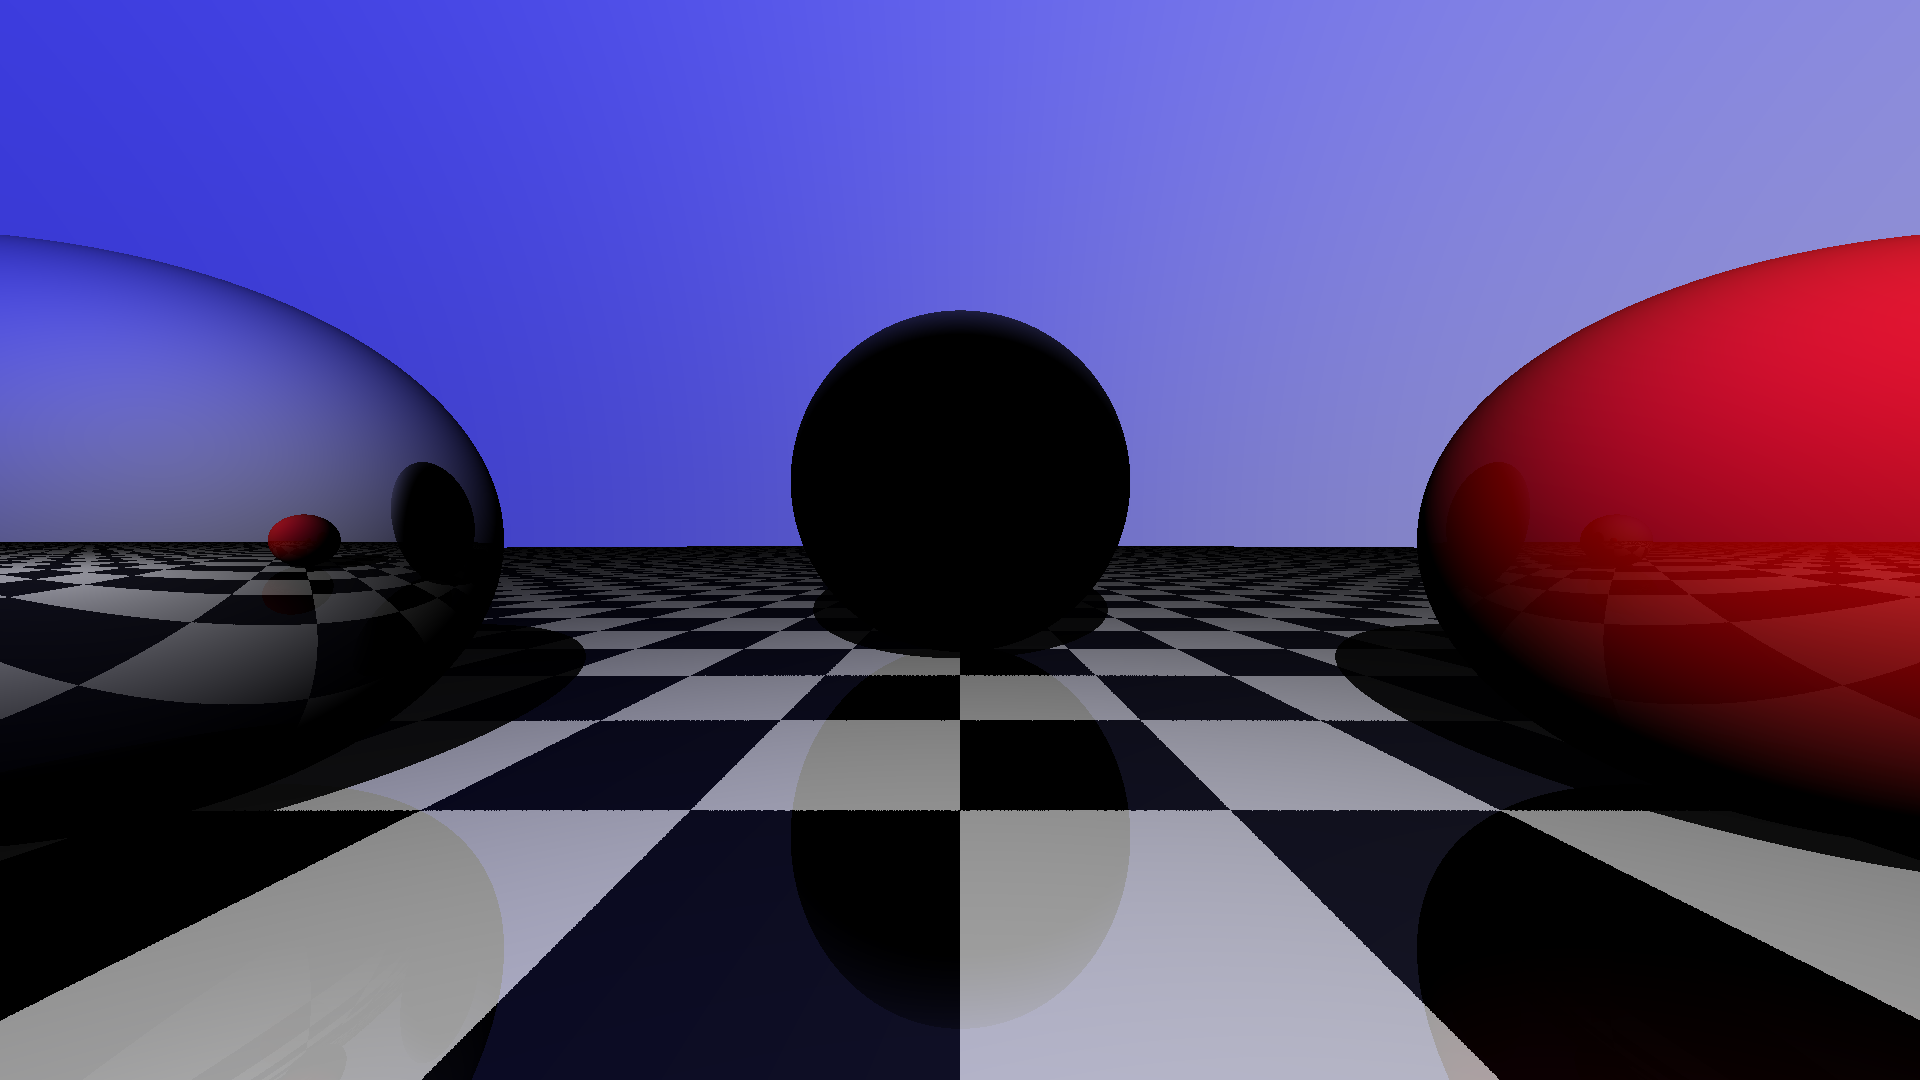
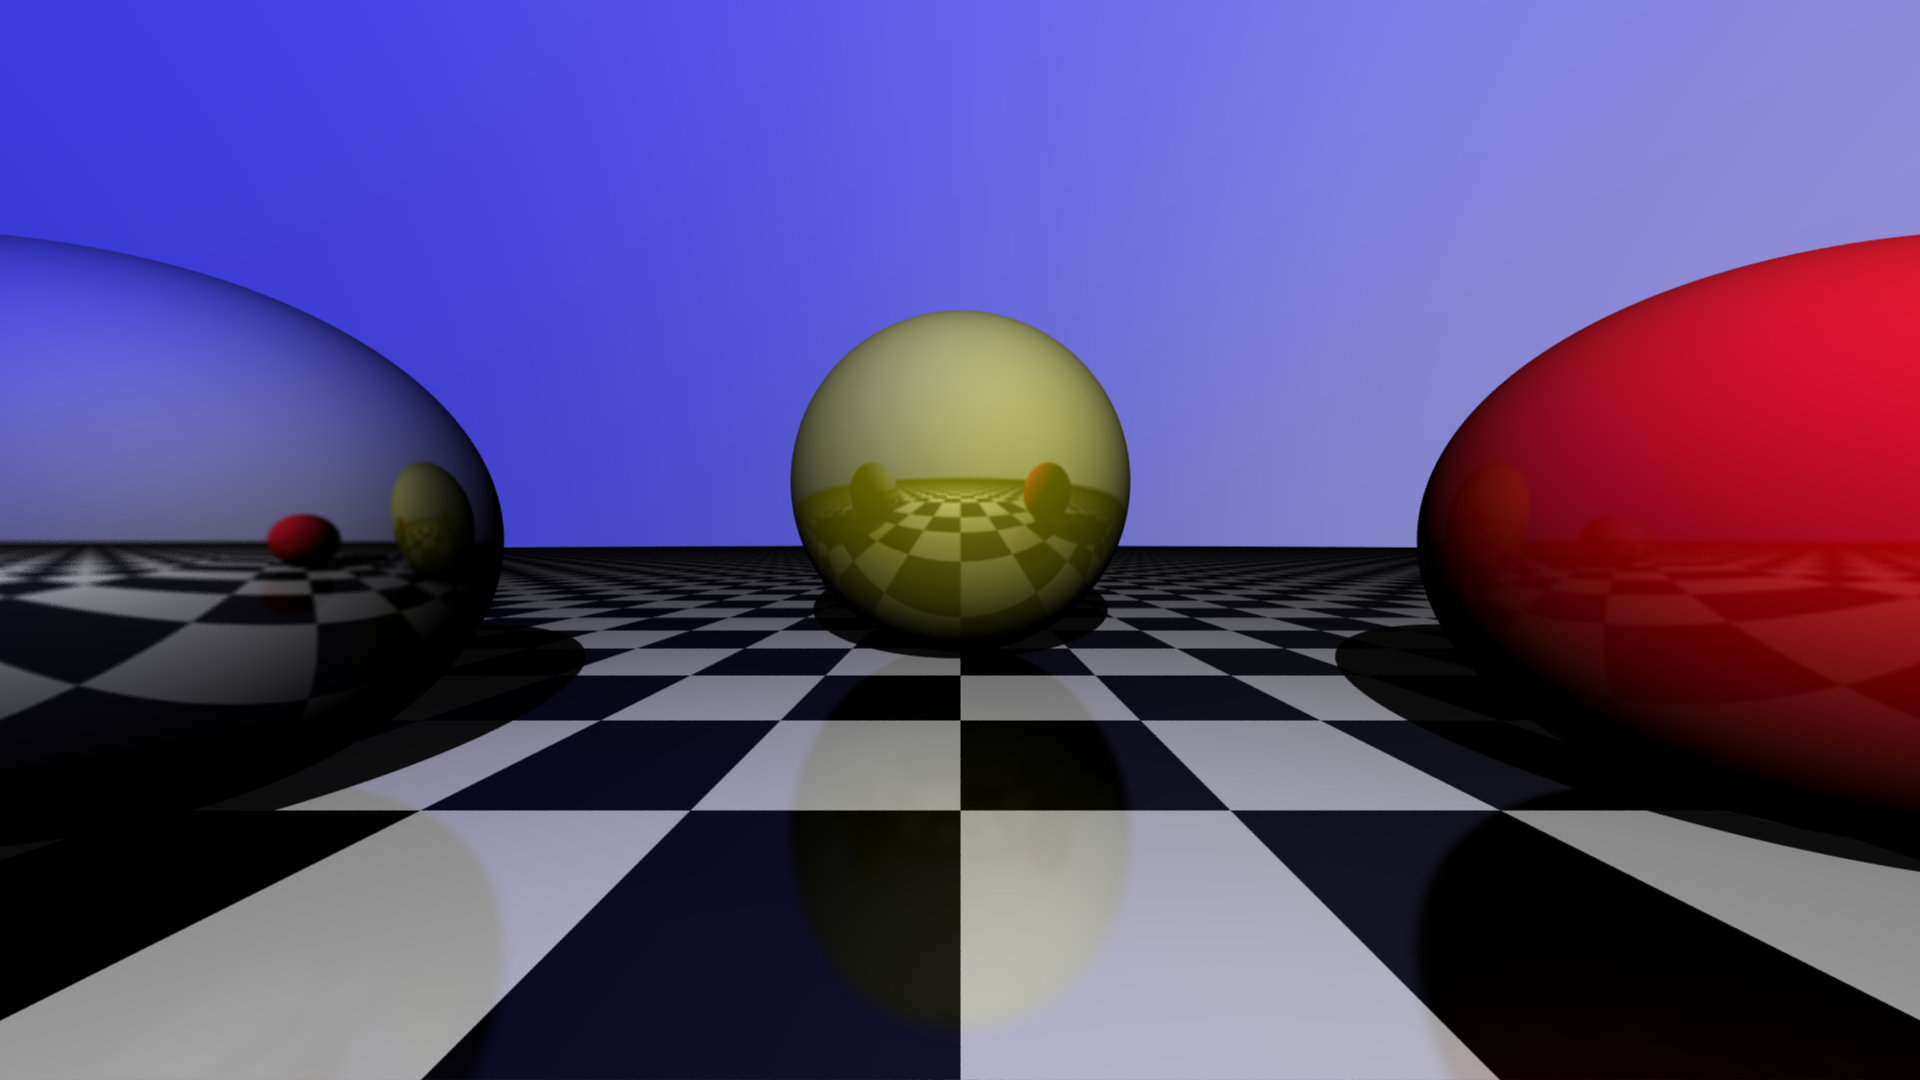
[#6]: Add reflection fuzz

diff --git a/src/raytracer/scene.rs b/src/raytracer/scene.rs
@@ -168,7 +168,19 @@ impl Scene {
                 let (mut r, mut g, mut b): (f32, f32, f32);
                 match reflection_factor {
                     Some(reflection_factor) => {
-                        let reflection = reflect(&-ray.get_direction(), &closest_hitinfo.normal);
+                        let mut reflection =
+                            reflect(&-ray.get_direction(), &closest_hitinfo.normal);
+
+                        let fuzziness = 0.02f32;
+                        if fuzziness > 0.0 {
+                            reflection = reflection
+                                + fuzziness
+                                    * Vec3 {
+                                        x: rng.next_f32() * 2.0 - 1.0,
+                                        y: rng.next_f32() * 2.0 - 1.0,
+                                        z: rng.next_f32() * 2.0 - 1.0,
+                                    };
+                        }
 
                         let mut final_color_r = o_r as f32 * (1.0 - reflection_factor);
                         let mut final_color_g = o_g as f32 * (1.0 - reflection_factor);

diff --git a/src/main.rs b/src/main.rs
@@ -26,7 +26,7 @@ const WIDTH: usize = 1920;
 const HEIGHT: usize = 1080;
 const BOX_SIDE: usize = 96;
 const MAX_ITERATION: u32 = 5;
-const RAY_PER_PIXEL: u32 = 1;
+const RAY_PER_PIXEL: u32 = 100;
 const RANDOM_OFFSET_COUNT: usize = RAY_PER_PIXEL as usize * 100;
 
 fn color(r: u8, g: u8, b: u8) -> u32 {
@@ -142,6 +142,8 @@ fn main() {
 
             let mut random_offset = 0usize;
 
+            let mut rng = rand::XorShiftRng::new_unseeded();
+
             for y in 0..buffer_height {
                 let screen_y = (min_y + y) as f32;
                 for x in 0..buffer_width {
@@ -163,7 +165,7 @@ fn main() {
                         }
 
                         let ray = camera.get_ray(factor_x, factor_y);
-                        let (_, r, g, b) = scene.trace(ray, MAX_ITERATION);
+                        let (_, _, r, g, b) = scene.trace(&mut rng, ray, MAX_ITERATION, 0f32);
 
                         color_r += r;
                         color_g += g;
